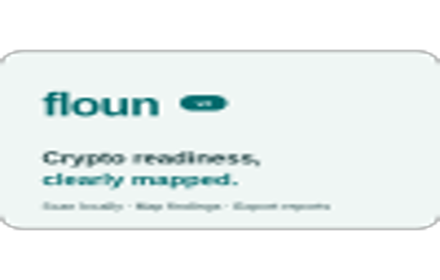
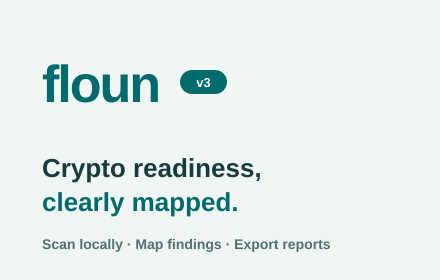
fix: address v3 release review

diff --git a/floun/src/App.test.tsx b/floun/src/App.test.tsx
@@ -141,13 +141,35 @@ test('renders the Floun v3 scan workspace', async () => {
   render(<App />);
 
   await screen.findByText(/ready to inspect this site/i);
-  expect(screen.getByRole('heading', { name: 'Floun' })).toBeInTheDocument();
+  expect(screen.getByRole('heading', { name: 'floun' })).toBeInTheDocument();
   expect(screen.getByText(/crypto readiness, clearly mapped/i)).toBeInTheDocument();
-  expect(screen.getByAltText(/floun v3 mark/i)).toHaveAttribute('src', 'icons/floun.png');
+  expect(screen.queryByAltText(/floun v3 mark/i)).not.toBeInTheDocument();
   expect(screen.getByRole('button', { name: /scan current site/i })).toBeInTheDocument();
   expect(screen.getByRole('button', { name: /ai drafting/i })).toBeInTheDocument();
   expect(screen.getByText(/ready to inspect this site/i)).toBeInTheDocument();
   expect(screen.queryByRole('button', { name: /generate report/i })).not.toBeInTheDocument();
+});
+
+test('shows informational counts so module totals reconcile', async () => {
+  vi.mocked(scanActiveTab).mockResolvedValue({
+    jsScripts: [],
+    tokens: [],
+    headers: {},
+    TLS: null,
+    certificates: null,
+    scanMeta: {
+      page: { status: 'complete' },
+      tls: { status: 'unavailable', message: 'No TLS data.' },
+      certificates: { status: 'unavailable', message: 'No certificate data.' },
+      warnings: [],
+    },
+  });
+
+  render(<App />);
+  fireEvent.click(screen.getByRole('button', { name: /scan current site/i }));
+  fireEvent.click(await screen.findByRole('button', { name: /^tokens\s*1$/i }));
+
+  expect(screen.getByLabelText(/tokens result counts/i)).toHaveTextContent('Info1');
 });
 
 test('announces a branded scanning state while work is in progress', async () => {

diff --git a/floun/src/App.tsx b/floun/src/App.tsx
@@ -120,6 +120,7 @@ const AnalysisSection: React.FC<{ moduleResult: AnalysisModuleResult }> = ({ mod
       <div><span>Safe</span><strong>{moduleResult.summary.safe}</strong></div>
       <div><span>Review</span><strong>{moduleResult.summary.review}</strong></div>
       <div><span>At risk</span><strong>{moduleResult.summary.vulnerable}</strong></div>
+      <div><span>Info</span><strong>{moduleResult.summary.informational}</strong></div>
     </div>
     <FindingRows findings={moduleResult.findings} />
   </div>
@@ -289,10 +290,9 @@ const App: React.FC = () => {
     <div className="app-shell">
       <TopBar sticky={false} className="brand-bar">
         <TopBarBrand>
-          <img className="brand-mark" src="icons/floun.png" alt="Floun v3 mark" />
           <div className="brand-copy">
             <div className="brand-title-row">
-              <h1>Floun</h1>
+              <h1>floun</h1>
               <Badge variant="info">v3</Badge>
             </div>
             <p>Crypto readiness, clearly mapped.</p>

diff --git a/floun/src/extension/storeContract.test.ts b/floun/src/extension/storeContract.test.ts
@@ -17,6 +17,7 @@ test("the v3 store contract matches the Teal UI and shipped BYOK behavior", () =
   const extensionReadme = readRepoFile("floun/README.md");
   const packageJson = JSON.parse(readRepoFile("floun/package.json"));
   const manifest = JSON.parse(readRepoFile("floun/public/manifest.json"));
+  const storeReadinessScript = readRepoFile("floun/scripts/check-store-readiness.mjs");
   const combined = [listing, privacyFields, privacyPolicy, releaseChecklist, rootReadme, extensionReadme].join("\n");
 
   expect(combined).not.toContain("floun-2.0.0.zip");
@@ -37,6 +38,7 @@ test("the v3 store contract matches the Teal UI and shipped BYOK behavior", () =
   expect(privacyPolicy).toMatch(/SSL Labs.*DeepSeek/s);
   expect(releaseChecklist).toContain("docs/release/3.0.0/QA_EVIDENCE.md");
   expect(listing).toMatch(/Teal design system/i);
+  expect(storeReadinessScript).toContain("must not contain an alpha channel");
 });
 
 export {};

diff --git a/floun/src/App.css b/floun/src/App.css
@@ -55,13 +55,6 @@ button {
   backdrop-filter: blur(16px);
 }
 
-.brand-mark {
-  width: 48px;
-  height: 48px;
-  object-fit: contain;
-  filter: drop-shadow(0 8px 14px rgb(var(--color-primary) / 0.18));
-}
-
 .brand-copy {
   min-width: 0;
 }
@@ -75,7 +68,9 @@ button {
 .brand-title-row h1 {
   margin: 0;
   font-family: var(--teal-font-headline);
-  font-size: 1.35rem;
+  color: rgb(var(--color-primary));
+  font-size: 1.75rem;
+  font-weight: 800;
   line-height: 1.1;
   letter-spacing: -0.03em;
 }
@@ -300,7 +295,7 @@ button {
 
 .metric-grid {
   display: grid;
-  grid-template-columns: repeat(4, 1fr);
+  grid-template-columns: repeat(5, 1fr);
   gap: 6px;
 }
 

diff --git a/docs/release/3.0.0/QA_EVIDENCE.md b/docs/release/3.0.0/QA_EVIDENCE.md
@@ -7,17 +7,17 @@ Status: release candidate verified locally on Linux on 2026-07-20. The candidate
 - Package path: `floun/release/floun-3.0.0.zip`
 - Alias package path: `floun/release/floun-3.0.zip`
 - Extension version: `3.0.0`
[2 lines of base64/hex data omitted]
-- Size bytes: `408165`
[3 lines of base64/hex data omitted]
+- Size bytes: `407713`
[1 lines of base64/hex data omitted]
 
 Required archive entries:
 
-- `assets/ai-handler-CrIwuOcA.js`
-- `assets/index-Cg9HxsZy.css`
-- `assets/index-BjuZKfdP.js`
-- `assets/pdfService-C3MhUZCR.js`
+- `assets/ai-handler-CywFBx22.js`
+- `assets/index-CZUzaN4x.js`
+- `assets/index-DqUw9XTJ.css`
+- `assets/pdfService-gadytbjr.js`
 - `assets/reportDraftingSettings-BKincOJB.js`
 - `background.js`
 - `icons/favicon.ico`
@@ -36,7 +36,7 @@ The artifact gate verifies safe relative ZIP entries, an exact MV3 manifest sche
 | Check | Result | Evidence |
 | --- | --- | --- |
 | Teal dependency install | Pass | Installed published `@kryv/teal@0.3.0`; npm audited 355 packages with zero vulnerabilities. |
-| `npm run release:check` | Pass | 32 test files and 128 tests passed; lint, production build, production dependency audit, typecheck, and worker syntax check passed. |
+| `npm run release:check` | Pass | 32 test files and 130 tests passed; lint, production build, production dependency audit, typecheck, and worker syntax check passed. |
 | `npm run release:artifact` | Pass | Canonical and alias archives matched the recorded version, entries, size, and SHA-256. |
 | `npm run release:determinism` | Pass | Two clean package runs were byte-identical. |
 | `npm run store:check` | Pass | Required store documents and 128x128, 1280x800, and 440x280 PNG assets passed. |
@@ -55,7 +55,7 @@ These rows are backed by the Chrome DevTools Protocol QA run against the unpacke
 | Scan `https://www.cloudflare.com/` | Pass | Detected 95 signals, rendered TLS and certificate evidence from one SSL Labs assessment, and displayed page truncation in a Teal warning alert. |
 | Scan `http://example.com/` | Pass | Completed with explicit TLS and certificate unavailable warnings for the blacklisted host. |
 | Attempt unsupported page such as `chrome://extensions/` | Pass | Displayed the expected HTTP/HTTPS-only Teal danger alert without crashing the popup. |
-| Generate PDF report | Pass | Downloaded a 27,034-byte PDF; none of the five raw fixture token values appeared in the file. |
+| Generate PDF report | Pass | Downloaded a 27,035-byte PDF; none of the five raw fixture token values appeared in the file. |
 | Configure and clear DeepSeek BYOK with explicit consent | Pass | Saved the fake key only after consent, reopened the Teal dialog with masked status, sent seven redacted authenticated requests to the intercepted endpoint, generated a leak-free PDF, and removed the key through the UI. |
 | Store package built without AI key | Pass | Artifact secret scanning found no DeepSeek-style key, environment file, or build-time AI secret. |
 | Inspect v3 wordmark, animation, dialog, and narrow layout | Pass | Production screenshots confirmed the lowercase teal `floun` wordmark, 400 px layout, status cards, warning alert, centered AI dialog, masked key card, and button alignment without horizontal overflow or clipping. |

diff --git a/docs/RELEASE_NOTES_3.0.0.md b/docs/RELEASE_NOTES_3.0.0.md
@@ -10,7 +10,7 @@ Floun 3 rebuilds the complete extension experience with the Kryv Labs Teal desig
 
 - Replaced hand-built popup controls and surfaces with published `@kryv/teal@0.3.0` components.
 - Introduced a compact 400 px scan workspace with a clearer primary action, readiness state, status badges, warnings, expandable evidence, and report action.
-- Added a new Floun cryptography-scanning brand mark and regenerated the extension icons.
+- Added a lowercase teal `floun` wordmark and regenerated the extension icons.
 - Replaced the swimming loader with a branded radar animation that respects reduced-motion preferences.
 - Moved AI drafting into an accessible Teal dialog with Teal fields, checkbox semantics, alerts, saved-key card, replacement flow, and removal action.
 - Preserved on-demand active-tab scanning, SSL Labs transport evidence, redacted PDF generation, DeepSeek consent, device-local key persistence, and deletion hardening.
